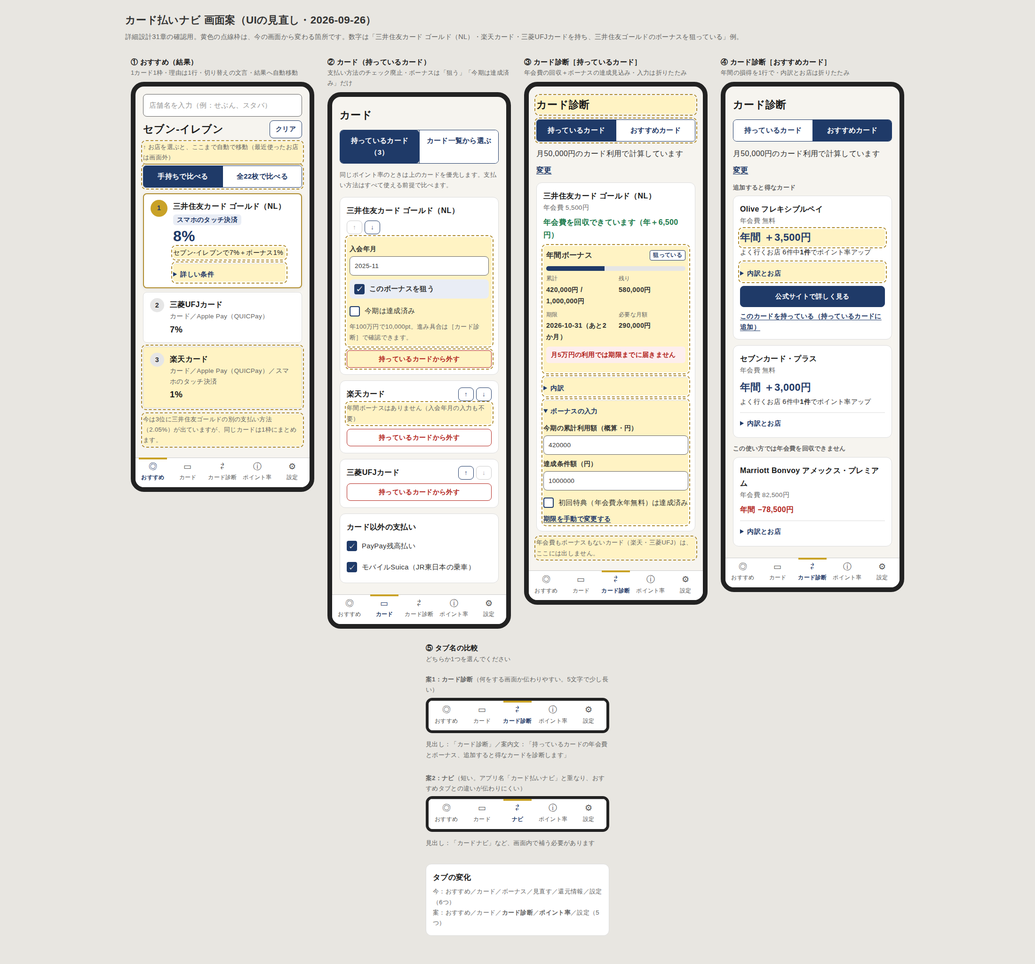
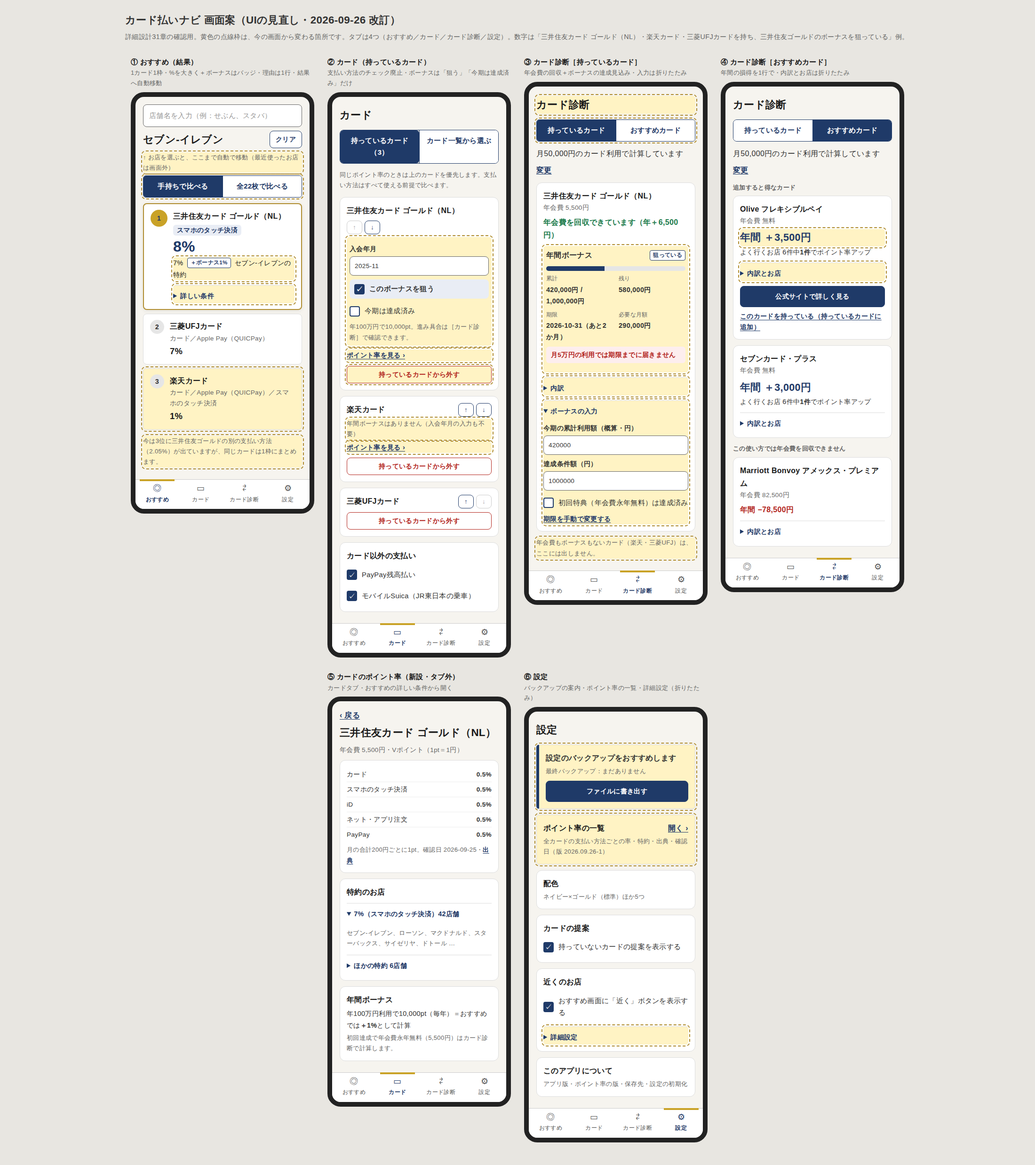
Settle tab layout and bonus weighting in the UI review design
Four tabs (おすすめ / カード / カード診断 / 設定): the bonus and point-rate
tabs go away, point rates move to a per-card screen opened from the card
tab and recommendation details plus a full list under settings. The
recommendation bonus uplift is bonus points / threshold, excluding the
one-time annual-fee waiver, added only while the goal is targeted and not
yet achieved; the fee-deducting option B is dropped. Mockups updated to
match.

Claude-Session: https://claude.ai/code/session_01Nz6b1Ns8ef6LsHNfBXt382

Changed region(s): [[0.1236, 0.0, 0.8964, 0.999]]

diff --git a/design/mockups/ui_review_2026-09-26.html b/design/mockups/ui_review_2026-09-26.html
@@ -54,7 +54,7 @@ dl{display:grid;grid-template-columns:1fr 1fr;gap:6px 12px;margin:6px 0 0}dt{fon
 .store-title{display:flex;justify-content:space-between;align-items:center;margin:8px 0}
 .search{border:1px solid #666;border-radius:var(--r8);background:#fff;padding:10px 12px;color:#999;font-size:.95rem}
 .chip{display:inline-block;border:1px solid var(--navy);border-radius:var(--r8);padding:2px 10px;color:var(--navy);font-weight:700;font-size:.82rem;margin:0 4px 6px 0}
-.tabs{display:grid;grid-template-columns:repeat(5,1fr);background:#fff;border-top:1px solid #ccc;padding:6px 0 10px}
+.tabs{display:grid;grid-template-columns:repeat(4,1fr);background:#fff;border-top:1px solid #ccc;padding:6px 0 10px}
 .tab{display:flex;flex-direction:column;align-items:center;font-size:.72rem;color:#555;gap:2px;position:relative}
 .tab b{font-size:1.1rem;font-weight:400;line-height:1.4}.tab.on{color:var(--navy);font-weight:700}.tab.on:before{content:"";position:absolute;top:-7px;left:10%;right:10%;height:4px;background:var(--gold)}
 .new{background:#fff3c4;outline:2px dashed #b08d2f;outline-offset:2px;border-radius:6px}
@@ -66,15 +66,15 @@ dl{display:grid;grid-template-columns:1fr 1fr;gap:6px 12px;margin:6px 0 0}dt{fon
 </head>
 <body>
 <div class="page-head">
-  <h1>カード払いナビ 画面案（UIの見直し・2026-09-26）</h1>
-  <p>詳細設計31章の確認用。黄色の点線枠は、今の画面から変わる箇所です。数字は「三井住友カード ゴールド（NL）・楽天カード・三菱UFJカードを持ち、三井住友ゴールドのボーナスを狙っている」例。</p>
+  <h1>カード払いナビ 画面案（UIの見直し・2026-09-26 改訂）</h1>
+  <p>詳細設計31章の確認用。黄色の点線枠は、今の画面から変わる箇所です。タブは4つ（おすすめ／カード／カード診断／設定）。数字は「三井住友カード ゴールド（NL）・楽天カード・三菱UFJカードを持ち、三井住友ゴールドのボーナスを狙っている」例。</p>
 </div>
 
 <div class="row">
 
 <!-- A: おすすめ -->
 <div class="frame">
-<p class="cap">① おすすめ（結果）<small>1カード1枠・理由は1行・切り替えの文言・結果へ自動移動</small></p>
+<p class="cap">① おすすめ（結果）<small>1カード1枠・%を大きく＋ボーナスはバッジ・理由は1行・結果へ自動移動</small></p>
 <div class="phone"><div class="scr">
   <div class="search">店舗名を入力（例：せぶん、スタバ）</div>
   <div class="store-title"><h2 class="t" style="margin:0">セブン-イレブン</h2><span class="btn">クリア</span></div>
@@ -84,16 +84,16 @@ dl{display:grid;grid-template-columns:1fr 1fr;gap:6px 12px;margin:6px 0 0}dt{fon
     <h3>三井住友カード ゴールド（NL）</h3>
     <span class="method">スマホのタッチ決済</span>
     <div class="rate">8%</div>
-    <div class="why new">セブン-イレブンで7%＋ボーナス1%</div>
+    <div class="why new">7% <span class="tag st" style="margin:0 4px">＋ボーナス1%</span> セブン-イレブンの特約</div>
     <details class="new"><summary>詳しい条件</summary>
-      <p class="note">店頭はスマホのタッチ決済のみ（カードのタッチ・iD・挿し込みは対象外）。<br>ボーナス：年100万円で10,000pt。年会費5,500円を差し引いて1%相当（残り580,000円・期限2026-10-31）。<br>カード・iD・PayPayは1.5%。</p>
+      <p class="note">店頭はスマホのタッチ決済のみ（カードのタッチ・iD・挿し込みは対象外）。<br>ボーナス：年100万円で10,000pt＝1%相当（残り580,000円・期限2026-10-31）。年会費は考えません。<br>カード・iD・PayPayは1.5%。<br><span class="link">このカードのポイント率を見る ›</span></p>
     </details>
   </div></div>
   <div class="rank"><div class="no">2</div><div><h3>三菱UFJカード</h3><div class="method">カード／Apple Pay（QUICPay）</div><div class="rate">7%</div></div></div>
   <div class="rank new"><div class="no">3</div><div><h3>楽天カード</h3><div class="method">カード／Apple Pay（QUICPay）／スマホのタッチ決済</div><div class="rate">1%</div></div></div>
   <p class="note new">今は3位に三井住友ゴールドの別の支払い方法（2.05%）が出ていますが、同じカードは1枠にまとめます。</p>
 </div>
-<div class="tabs"><div class="tab on"><b>◎</b>おすすめ</div><div class="tab"><b>▭</b>カード</div><div class="tab"><b>⇄</b>カード診断</div><div class="tab"><b>ⓘ</b>ポイント率</div><div class="tab"><b>⚙</b>設定</div></div>
+<div class="tabs"><div class="tab on"><b>◎</b>おすすめ</div><div class="tab"><b>▭</b>カード</div><div class="tab"><b>⇄</b>カード診断</div><div class="tab"><b>⚙</b>設定</div></div>
 </div></div>
 
 <!-- B: カードタブ -->
@@ -111,11 +111,13 @@ dl{display:grid;grid-template-columns:1fr 1fr;gap:6px 12px;margin:6px 0 0}dt{fon
       <div class="chk plain"><span class="box"></span>今期は達成済み</div>
       <p class="note" style="margin:4px 0 0">年100万円で10,000pt。進み具合は［カード診断］で確認できます。</p>
     </div>
+    <p class="link new" style="margin:8px 0 0;font-size:.9rem">ポイント率を見る ›</p>
     <span class="btn red new">持っているカードから外す</span>
   </div>
   <div class="panel">
     <div class="line" style="justify-content:space-between;margin:0"><h3>楽天カード</h3><span><span class="btn">↑</span> <span class="btn">↓</span></span></div>
     <p class="note new" style="margin:6px 0 0">年間ボーナスはありません（入会年月の入力も不要）</p>
+    <p class="link new" style="margin:4px 0 0;font-size:.9rem">ポイント率を見る ›</p>
     <span class="btn red">持っているカードから外す</span>
   </div>
   <div class="panel">
@@ -127,7 +129,7 @@ dl{display:grid;grid-template-columns:1fr 1fr;gap:6px 12px;margin:6px 0 0}dt{fon
     <div class="chk plain"><span class="box on">✓</span>モバイルSuica（JR東日本の乗車）</div>
   </div>
 </div>
-<div class="tabs"><div class="tab"><b>◎</b>おすすめ</div><div class="tab on"><b>▭</b>カード</div><div class="tab"><b>⇄</b>カード診断</div><div class="tab"><b>ⓘ</b>ポイント率</div><div class="tab"><b>⚙</b>設定</div></div>
+<div class="tabs"><div class="tab"><b>◎</b>おすすめ</div><div class="tab on"><b>▭</b>カード</div><div class="tab"><b>⇄</b>カード診断</div><div class="tab"><b>⚙</b>設定</div></div>
 </div></div>
 
 <!-- C: カード診断 持っているカード -->
@@ -158,7 +160,7 @@ dl{display:grid;grid-template-columns:1fr 1fr;gap:6px 12px;margin:6px 0 0}dt{fon
   </div>
   <p class="note new">年会費もボーナスもないカード（楽天・三菱UFJ）は、ここには出しません。</p>
 </div>
-<div class="tabs"><div class="tab"><b>◎</b>おすすめ</div><div class="tab"><b>▭</b>カード</div><div class="tab on"><b>⇄</b>カード診断</div><div class="tab"><b>ⓘ</b>ポイント率</div><div class="tab"><b>⚙</b>設定</div></div>
+<div class="tabs"><div class="tab"><b>◎</b>おすすめ</div><div class="tab"><b>▭</b>カード</div><div class="tab on"><b>⇄</b>カード診断</div><div class="tab"><b>⚙</b>設定</div></div>
 </div></div>
 
 <!-- D: カード診断 おすすめカード -->
@@ -190,27 +192,53 @@ dl{display:grid;grid-template-columns:1fr 1fr;gap:6px 12px;margin:6px 0 0}dt{fon
   <p class="note" style="margin:0 0 6px"><strong>この使い方では年会費を回収できません</strong></p>
   <div class="panel"><h3>Marriott Bonvoy アメックス・プレミアム</h3><p class="muted" style="margin:0">年会費 82,500円</p><p class="ng" style="margin:6px 0 0">年間 −78,500円</p><details><summary>内訳とお店</summary></details></div>
 </div>
-<div class="tabs"><div class="tab"><b>◎</b>おすすめ</div><div class="tab"><b>▭</b>カード</div><div class="tab on"><b>⇄</b>カード診断</div><div class="tab"><b>ⓘ</b>ポイント率</div><div class="tab"><b>⚙</b>設定</div></div>
+<div class="tabs"><div class="tab"><b>◎</b>おすすめ</div><div class="tab"><b>▭</b>カード</div><div class="tab on"><b>⇄</b>カード診断</div><div class="tab"><b>⚙</b>設定</div></div>
 </div></div>
 
-<!-- E: タブ名の比較 -->
-<div class="frame tabcmp">
-<p class="cap">⑤ タブ名の比較<small>どちらか1つを選んでください</small></p>
-<div>
-  <p class="legend"><strong>案1：カード診断</strong>（何をする画面か伝わりやすい。5文字で少し長い）</p>
-  <div class="phone" style="border-width:6px;border-radius:14px"><div class="tabs"><div class="tab"><b>◎</b>おすすめ</div><div class="tab"><b>▭</b>カード</div><div class="tab on"><b>⇄</b>カード診断</div><div class="tab"><b>ⓘ</b>ポイント率</div><div class="tab"><b>⚙</b>設定</div></div></div>
-  <p class="note">見出し：「カード診断」／案内文：「持っているカードの年会費とボーナス、追加すると得なカードを診断します」</p>
+<!-- E: カードのポイント率 -->
+<div class="frame">
+<p class="cap">⑤ カードのポイント率（新設・タブ外）<small>カードタブ・おすすめの詳しい条件から開く</small></p>
+<div class="phone"><div class="scr">
+  <p class="link" style="margin:0 0 4px">‹ 戻る</p>
+  <h2 class="t" style="margin-top:0">三井住友カード ゴールド（NL）</h2>
+  <p class="muted" style="margin:-6px 0 10px">年会費 5,500円・Vポイント（1pt＝1円）</p>
+  <div class="panel">
+    <div class="delta" style="border:0"><span>カード</span><b>0.5%</b></div>
+    <div class="delta"><span>スマホのタッチ決済</span><b>0.5%</b></div>
+    <div class="delta"><span>iD</span><b>0.5%</b></div>
+    <div class="delta"><span>ネット・アプリ注文</span><b>0.5%</b></div>
+    <div class="delta"><span>PayPay</span><b>0.5%</b></div>
+    <p class="note" style="margin:6px 0 0">月の合計200円ごとに1pt。確認日 2026-09-25・<span class="link">出典</span></p>
+  </div>
+  <div class="panel">
+    <h3>特約のお店</h3>
+    <details open><summary>7%（スマホのタッチ決済）42店舗</summary><p class="note">セブン-イレブン、ローソン、マクドナルド、スターバックス、サイゼリヤ、ドトール …</p></details>
+    <details><summary>ほかの特約 6店舗</summary></details>
+  </div>
+  <div class="panel">
+    <h3>年間ボーナス</h3>
+    <p style="margin:4px 0 0;font-size:.9rem">年100万円利用で10,000pt（毎年）＝おすすめでは<b>＋1%</b>として計算</p>
+    <p class="note" style="margin:4px 0 0">初回達成で年会費永年無料（5,500円）はカード診断で計算します。</p>
+  </div>
 </div>
-<div>
-  <p class="legend"><strong>案2：ナビ</strong>（短い。アプリ名「カード払いナビ」と重なり、おすすめタブとの違いが伝わりにくい）</p>
-  <div class="phone" style="border-width:6px;border-radius:14px"><div class="tabs"><div class="tab"><b>◎</b>おすすめ</div><div class="tab"><b>▭</b>カード</div><div class="tab on"><b>⇄</b>ナビ</div><div class="tab"><b>ⓘ</b>ポイント率</div><div class="tab"><b>⚙</b>設定</div></div></div>
-  <p class="note">見出し：「カードナビ」など、画面内で補う必要があります</p>
+<div class="tabs"><div class="tab"><b>◎</b>おすすめ</div><div class="tab on"><b>▭</b>カード</div><div class="tab"><b>⇄</b>カード診断</div><div class="tab"><b>⚙</b>設定</div></div>
+</div></div>
+
+<!-- F: 設定 -->
+<div class="frame">
+<p class="cap">⑥ 設定<small>バックアップの案内・ポイント率の一覧・詳細設定（折りたたみ）</small></p>
+<div class="phone"><div class="scr">
+  <h2 class="t">設定</h2>
+  <div class="panel new" style="border-left:6px solid var(--navy)"><strong>設定のバックアップをおすすめします</strong><p class="note" style="margin:4px 0 0">最終バックアップ：まだありません</p><span class="btn fill" style="margin-top:8px">ファイルに書き出す</span></div>
+  <div class="panel new"><div class="line" style="justify-content:space-between;margin:0"><h3>ポイント率の一覧</h3><span class="link">開く ›</span></div><p class="note" style="margin:4px 0 0">全カードの支払い方法ごとの率・特約・出典・確認日（版 2026.09.26-1）</p></div>
+  <div class="panel"><h3>配色</h3><p class="note" style="margin:4px 0 0">ネイビー×ゴールド（標準）ほか5つ</p></div>
+  <div class="panel"><h3>カードの提案</h3><div class="chk plain"><span class="box on">✓</span>持っていないカードの提案を表示する</div></div>
+  <div class="panel"><h3>近くのお店</h3><div class="chk plain"><span class="box on">✓</span>おすすめ画面に「近く」ボタンを表示する</div>
+    <details class="new"><summary>詳細設定</summary><p class="note">検索先（OpenStreetMap／Yahoo!ローカルサーチ）、アプリID、検索する半径。将来は管理者だけが設定します。</p></details></div>
+  <div class="panel"><h3>このアプリについて</h3><p class="note" style="margin:4px 0 0">アプリ版・ポイント率の版・保存先・設定の初期化</p></div>
 </div>
-<div class="panel" style="margin-top:6px">
-  <h3>タブの変化</h3>
-  <p class="note" style="margin:6px 0 0">今：おすすめ／カード／ボーナス／見直す／還元情報／設定（6つ）<br>案：おすすめ／カード／<b>カード診断</b>／<b>ポイント率</b>／設定（5つ）</p>
-</div>
-</div>
+<div class="tabs"><div class="tab"><b>◎</b>おすすめ</div><div class="tab"><b>▭</b>カード</div><div class="tab"><b>⇄</b>カード診断</div><div class="tab on"><b>⚙</b>設定</div></div>
+</div></div>
 
 </div>
 </body>

diff --git a/design/detailed_design.md b/design/detailed_design.md
@@ -30,7 +30,7 @@
 | 1.15 | 2026-09-25 | 近くのお店から選ぶ（F13・S10）の詳細設計（27章） |
 | 1.16 | 2026-09-25 | プロジェクト内のソースを整理。v1.13 で統合済みのはずの v1.7〜v1.12 の実装が一部の古いファイルのまま保存されていたため、設計書（20〜24章）と最新のビルド・E2Eをもとに復元し、v1.14〜v1.15 と合わせて全テストを通した（28章） |
 | 1.17 | 2026-09-26 | 残課題3・11・15〜17・19の調査結果（29章）。ルール版 2026.09.26-1 |
-| 1.19 | 2026-09-26 | UIの見直し（31章。設計のみ・未実装）：近くのお店のタグ廃止、ボーナスタブ廃止とカード診断タブへの統合（タブ名は画面案で確認）、おすすめを1カード1枠に、支払い方法の選択廃止、用語統一、ボーナスの期待ポイント率を年会費差し引き（B案）に |
+| 1.19 | 2026-09-26 | UIの見直し（31章。設計のみ・未実装）：近くのお店のタグ廃止、タブを4つに（ボーナス・ポイント率タブを廃止、「見直す」をカード診断に改名して統合）、おすすめを1カード1枠に、支払い方法の選択廃止、用語統一、ボーナスの上乗せから年会費無料特典を除外 |
 | 1.18 | 2026-09-26 | おすすめの比較範囲を「持っているカード／登録カード（22枚）」で切り替え、保有0枚は登録カード全体でおすすめ。区分名「マニア推奨」を「ポイ活向け」に変更（30章） |
 
 ---
@@ -1252,7 +1252,7 @@ export interface RecommendQuery { storeId?: Id; categoryId?: Id; amountYen?: num
 | No | 区分 | 内容 |
 |---|---|---|
 | U1 | 近くのお店 | 一覧（S10）の高還元タグ（「三井住友G 7%」「三菱UFJ 7%」等）を**すべて外す**。店名と距離だけにして、お店を選んでもらい履歴を貯める。カテゴリの店舗一覧（S02）のタグは変更しない |
-| U2 | タブ構成 | 「見直す」タブを改名する（**「カード診断」または「ナビ」。画面案で確認**）。**ボーナスタブは廃止**してタブを5つにする（おすすめ／カード／カード診断（仮）／ポイント率／設定） |
+| U2 | タブ構成 | 「見直す」タブを**「カード診断」**に改名する。**ボーナスタブとポイント率（旧・還元情報）タブは廃止**し、タブを4つにする（おすすめ／カード／カード診断／設定） |
 | U3 | ボーナス | 「このボーナスを狙う」と「今期は達成済み」だけをカードタブに移す。達成に向けた計算（累計・残り・期限・必要な月額）はカード診断タブへ。入力欄（累計・達成条件額・初回特典の達成済み・期限の手動変更）は折りたたむ |
 | U4 | おすすめ | 同じカードは1枠にまとめる（31.2.3） |
 | U5 | おすすめ | お店を選んだら結果の位置まで自動で移動する |
@@ -1260,10 +1260,10 @@ export interface RecommendQuery { storeId?: Id; categoryId?: Id; amountYen?: num
 | U7 | バックアップ | おすすめ画面上部のバックアップ案内をやめ、設定タブにだけ出す |
 | U8 | カード | 支払い方法のチェックは廃止し、経路のある支払い方法はすべて使える前提にする。「カード以外の支払い」（PayPay残高・モバイルSuica）の選択は残す |
 | U9 | カード診断 | カードごとの説明は、年間の損得の1行を残して内訳を折りたたむ |
-| U10 | ポイント率 | カードごとに折りたたむ |
+| U10 | ポイント率 | タブをやめ、カードごとの「ポイント率」画面（カードタブ・おすすめの詳しい条件から開く）と、設定からの一覧（カードごとに折りたたみ）で見る（31.2.8） |
 | U11 | 設定 | 近くのお店の検索先・Yahoo!ローカルサーチのアプリID・半径は「詳細設定」にまとめて折りたたむ。将来は管理者だけが設定する（公開版では利用者に見せない） |
 | U12 | 用語 | 「持っている」「ポイント率」「おすすめ」に統一する（31.2.6） |
-| U13 | ボーナス | おすすめの順位に使うボーナスの上乗せを、年会費を差し引いた期待ポイント率（B案）にする（31.2.4） |
+| U13 | ボーナス | おすすめでは年会費を考えず、ボーナスポイントだけを上乗せする。年会費無料になる初回特典は上乗せに含めない。加算は「狙う」がオンのときだけで、今期の達成済みは加算しない（31.2.4）。年会費の損得はカード診断だけで扱う |
 | U14 | おすすめ | 比較範囲の切り替えの文言を「手持ちで比べる｜全22枚で比べる」にする（枚数はマスタのカード数） |
 
 ### 31.2 仕様
@@ -1273,10 +1273,11 @@ export interface RecommendQuery { storeId?: Id; categoryId?: Id; amountYen?: num
 | タブ | 内容 |
 |---|---|
 | おすすめ | 変更は U4〜U7・U14 |
-| カード | 持っているカード：カードごとに優先順（↑↓）、ボーナスのあるカードだけ「入会年月」「このボーナスを狙う」「今期は達成済み」、外すボタン。支払い方法のチェックはなし（U8）。カード一覧から選ぶ：変更なし |
-| カード診断（仮） | 上部で［持っているカード｜おすすめカード］を切り替え → 月のカード利用額（1行＋［変更］、共通の値）→ カードごとの説明 |
-| ポイント率 | 旧「還元情報」。カードごとに折りたたみ（U10） |
-| 設定 | バックアップ案内（U7）、詳細設定（U11） |
+| カード | 持っているカード：カードごとに優先順（↑↓）、ボーナスのあるカードだけ「入会年月」「このボーナスを狙う」「今期は達成済み」、「ポイント率を見る」、外すボタン。支払い方法のチェックはなし（U8）。カード一覧から選ぶ：各カードに「ポイント率を見る」を追加 |
+| カード診断 | 上部で［持っているカード｜おすすめカード］を切り替え → 月のカード利用額（1行＋［変更］、共通の値）→ カードごとの説明 |
+| 設定 | バックアップ（案内 U7 を含む）、ポイント率の一覧（31.2.8）、配色、カードの提案、詳細設定（U11） |
+
+タブ外の画面：カテゴリ（S02）、近くのお店（S10）、広告の方針（S09）、カードのポイント率（S11・新設）、ポイント率の一覧（S05 を設定から開く形に変更）。
 
 カード診断の［持っているカード］（年会費のある持っているカード・ボーナスのある持っているカードを表示）：
 1. カード名・年会費、判定1行（「年会費を回収できています（年＋6,500円）」等。分冊10.4と同じ）
@@ -1298,29 +1299,33 @@ export interface RecommendQuery { storeId?: Id; categoryId?: Id; amountYen?: num
 - カード以外の経路（PayPay残高など）は従来どおり経路ごとに1枠
 - 影響：詳細設計 D1、`engine.ts` の grouping、参照実装 `master/ref_engine.py` とゴールデンケース（同じカードが複数枠に出るケース）を更新する
 
-#### 31.2.4 ボーナスの期待ポイント率（U13・B案）
+#### 31.2.4 ボーナスの上乗せ（U13）
 
 ```
-上乗せ率 = max(0, 特典額 − 差し引く年会費) ÷ 達成条件額
-  特典額       = bonusValueYen（初年度の特典額・初回特典を含む。従来どおり）
-  差し引く年会費 = カードの年会費。ただし初回特典（年会費永年無料）を達成済みなら0
+上乗せ率 = ボーナスポイント ÷ 達成条件額
+  ボーナスポイント = 特典額（valueYen。入会初年度だけ異なる場合は firstPeriodValueYen）
+                     ※ 年会費無料になる初回特典（oneTimeValueYen）は含めない
 ```
 
-加算する条件（狙う・未達成・期限内・対象の支払い方法）は従来どおり。マスタの値での上乗せ率：
+加算する条件（すべて満たすとき）：
+1. 「このボーナスを狙う」がオン
+2. 今期は未達成（「今期は達成済み」がオフ、かつ累計 < 達成条件額）。達成済みなら、それ以上使ってもボーナスは増えないため加算しない
+3. 期限内（入会年月か手動の期限がある）
+4. その支払い方法がボーナスの集計対象
 
-| ボーナス | 特典 | 年会費 | 従来 | B案 |
-|---|---|---|---|---|
-| 三井住友カード ゴールド（NL） | 10,000＋初回5,500 | 5,500（初回達成後0） | 1.55% | 1.0% |
-| PayPayカード ゴールド | 11,000（初年度6,000） | 11,000 | 1.1% | 0% |
-| 三井住友カード プラチナプリファード | 10,000 | 33,000 | 1.0% | 0% |
-| dカード GOLD | 10,000 | 11,000 | 1.0% | 0% |
-| エポスゴールドカード | 10,000 | 5,000 | 1.0% | 0.5% |
-| ビューカード スタンダード | 5,250 | 524 | 0.35% | 0.32% |
-| マリオット・プレミアム | 75,000 | 82,500 | 1.875% | 0% |
-| マリオット | 50,000 | 34,100 | 2.0% | 0.64% |
+期限までに届くかどうか（月の利用額との比較）は加算の条件にしない。届かない見込みはカード診断で「月5万円の利用では期限までに届きません」と表示する。
 
-- 0% になるボーナスは「狙う」をオンにしても順位は変わらない。カード診断の見込み表示は従来どおり出す
-- 影響：`engine.ts`（`bonusRate`）、参照実装・ゴールデンケース、理由の文言（「ボーナス1%相当（年会費差し引き後）」）
+| ボーナス | 従来 | 新 |
+|---|---|---|
+| 三井住友カード ゴールド（NL） | 1.55%（初回特典5,500円を含む） | **1.0%** |
+| PayPayカード ゴールド | 1.1%（初年度0.6%） | 変更なし |
+| 三井住友カード プラチナプリファード／dカード GOLD／エポスゴールド | 1.0% | 変更なし |
+| マリオット・プレミアム／マリオット | 1.875%／2.0% | 変更なし |
+| ビューカード スタンダード | 0.35% | 変更なし |
+
+- 画面：1位は「8%」を大きく、下に「7% ＋ ボーナス1%」（ボーナスはバッジ）
+- 影響：`bonus.ts` の `bonusValueYen` をおすすめ用（初回特典を除く）とカード診断用（従来どおり含む）に分ける。参照実装・ゴールデンケース（三井住友ゴールドのボーナス率）を更新
+- 年会費の損得（初回特典を含む）はカード診断（分冊10章）で従来どおり計算する
 
 #### 31.2.5 おすすめの画面（U5〜U7・U14）
 - 自動移動：お店を選んだ直後に結果見出しへ `scrollIntoView`（`prefers-reduced-motion` なら瞬時）。入力欄に文字がある間は移動しない
@@ -1336,14 +1341,19 @@ export interface RecommendQuery { storeId?: Id; categoryId?: Id; amountYen?: num
 | ポイント率 | 還元率・還元 | タブ「還元情報」→「ポイント率」、「通常還元」→「通常のポイント率」、「還元ルール確認日」→「ポイント率の確認日」、「還元アップ」→「ポイント率アップ」 |
 | おすすめ | 推奨 | 画面の文言（設計書内の用語は変えない） |
 
+#### 31.2.8 ポイント率の見せ方（U10）
+- **カードのポイント率（S11・新設）**：1枚のカードについて、支払い方法ごとの率・付与単位・出典・確認日、特約のお店（折りたたみ）、ボーナスの内容。カードタブの「ポイント率を見る」と、おすすめの［詳しい条件］の中のリンクから開く。「‹ 戻る」で元の画面へ
+- **ポイント率の一覧**：設定タブの「ポイント率の一覧（出典・確認日）」から開く。旧・還元情報タブと同じ内容を、カードごとに折りたたんで表示。末尾にポイントの価値（1pt＝何円）
+- 還元ルールの版・確認日は、一覧の先頭と設定の「このアプリについて」に表示する
+
 #### 31.2.7 支払い方法の選択廃止（U8）
 - `OwnedCard.enabledMethods` は残し、常に「経路のある支払い方法すべて」にする（バックアップの互換のため）。起動時の整理（`reconcile`）で既存の設定もすべてオンに戻す
 - カードタブの「使う支払い方法」を削除。説明文は「同じポイント率のときは上のカードを優先します」だけにする
 
 ### 31.3 画面案（確認用）
-`design/mockups/ui_review_2026-09-26.html`（スクリーンショット：同フォルダの PNG）。タブ名「カード診断」「ナビ」の両案、カードタブ、カード診断の［持っているカード］［おすすめカード］を示す。確認後にタブ名を決め、本章を確定して実装する。
+`design/mockups/ui_review_2026-09-26.html`（スクリーンショット：同フォルダの PNG）。おすすめ、カードタブ、カード診断の［持っているカード］［おすすめカード］、カードのポイント率（S11）、設定を示す。タブ名は「カード診断」、タブは4つに決定（2026-09-26）。
 
 ### 31.4 テストの見込み
-- 更新：E02（ボーナスの率）、E10〜E13・E19・E28・E29（見直すタブの文言・構成）、E14・E15（支払い方法の欄）、E16〜E18（タブ数）、E21（タグなし）、ゴールデン（1カード1枠・B案）
+- 更新：E02（ボーナスの率）、E04・E08（還元情報タブの廃止）、E10〜E13・E19・E28・E29（見直すタブの文言・構成）、E14・E15（支払い方法の欄）、E16〜E18（タブ数）、E21（タグなし）、ゴールデン（1カード1枠・ボーナス率）
 - 追加：自動移動、理由の折りたたみ、カード診断の切り替えの既定、`reconcile` で支払い方法がすべてオンになること
 

diff --git a/design/decision_log.md b/design/decision_log.md
@@ -56,8 +56,8 @@
 - 世間一般で使われているカード（定番）とマニア界隈でお得とされるカード（マニア推奨）を一覧化し、保有カードをアプリ上で選ぶ。推奨は保有カードからのみ
 - （09-26 変更）区分名「マニア推奨」を「ポイ活向け」に変更
 - （09-26 変更）保有カードが0枚のときは登録カード（22枚）全体でおすすめする。選んだ後は結果の上で「持っているカード｜登録カード（22枚）」を切り替えられる（既定は持っているカード）。登録カード表示では「保有」「未保有」の印、未保有カードに公式サイトへのリンク（アフィリエイトなら「PR」）、結果の下に「アプリに登録している主なカード22枚の中での比較です。日本のすべてのカードではありません」の注記。未保有カードの提案ヒント（①）は出さず、ボーナスの加算とポイント払いの提案は持っているカードだけで判定する
-- （09-26 決定・未実装）UIの見直し（詳細設計31章）：近くのお店のタグはすべて外す／ボーナスタブを廃止し、「狙う」「今期は達成済み」はカードタブ、達成に向けた計算はカード診断タブ（「見直す」を改名。「カード診断」か「ナビ」かは画面案で確認）、入力欄は折りたたみ／おすすめは1カード1枠・結果へ自動移動・理由は1行＋折りたたみ／バックアップ案内は設定タブ／支払い方法のチェックは廃止（すべて使える前提）／カード診断・ポイント率はカードごとに折りたたみ／近くのお店の検索先等は詳細設定（将来は管理者のみ）／用語は「持っている」「ポイント率」「おすすめ」／切り替えは「手持ちで比べる｜全22枚で比べる」
-- （09-26 決定・未実装）ボーナスの上乗せは「(特典額 − 年会費) ÷ 達成条件額」（B案。0未満は0）。初回特典で年会費が永年無料になった後は年会費0円として計算
+- （09-26 決定・未実装）UIの見直し（詳細設計31章）：近くのお店のタグはすべて外す／タブは4つ（おすすめ／カード／カード診断／設定）。ボーナスタブを廃止し、「狙う」「今期は達成済み」はカードタブ、達成に向けた計算はカード診断タブ（「見直す」を改名）、入力欄は折りたたみ。ポイント率タブも廃止し、カードごとのポイント率画面と設定の一覧で見る／おすすめは1カード1枠・結果へ自動移動・理由は1行＋折りたたみ／バックアップ案内は設定タブ／支払い方法のチェックは廃止（すべて使える前提）／カード診断はカードごとに折りたたみ／近くのお店の検索先等は詳細設定（将来は管理者のみ）／用語は「持っている」「ポイント率」「おすすめ」／切り替えは「手持ちで比べる｜全22枚で比べる」
+- （09-26 決定・未実装）おすすめでは年会費を考えず、ボーナスポイントだけを上乗せする（ボーナスポイント÷達成条件額。年会費無料になる初回特典は含めない）。加算は「狙う」がオンで今期未達成のときだけ。期限までに届くかは加算の条件にせず、カード診断で見込みを表示する。年会費差し引き（B案）は不採用
 - （09-26 変更）見直すタブの利用額は、提案カードか年会費のある保有カードがあるときだけ表示する。普段は「月5万円のカード利用で計算しています［変更］」の1行で、［変更］で入力欄を開く（A案）
 - カード一覧・還元情報はカード会社順→会社内はカード名順。どちらも英字で始まる名称をアルファベット順で先に、その後に日本語をあいうえお順。提携カードは発行・ブランドの主体で分類（dカードはNTTドコモ、Amazon Mastercardは三井住友カード、リクルートカードは三菱UFJニコス）
 

diff --git a/design/basic_design.md b/design/basic_design.md
@@ -22,7 +22,7 @@
 | 1.8 | 2026-09-25 | 近くのお店の検索先を設定で選べるようにする（OpenStreetMap（Overpass API）／Yahoo!ローカルサーチAPI（YOLP））。検索先ごとの紐付け・出典表示・同意、YOLPのアプリIDの扱い、残課題を追加 |
 | 1.9 | 2026-09-25 | 見直すタブ（S07）で年会費を回収できるかを計算（月のカード利用額を入力、年間の損得順に並べる、持っているカードの判定を追加。4.5節）。おすすめタブのヒント・バナーは現状維持。ビューカード スタンダードを追加し、モバイルSuica乗車でチャージ分のポイントを評価。ボーナス期間に「初年度だけ期間・特典額が違う」「毎年同じ月日から」を追加（4.3.1）。残課題3〜13の調査結果を反映（ルール版 2026.09.25-1） |
 | 1.10 | 2026-09-26 | 残課題3・11・15〜17・19を調査して反映（ルール版 2026.09.26-1。Olive 8%、Amazon Mastercard の特約修正、ビューサンクスボーナス、楽天ペイ経由のSuica）。詳細は詳細設計29章 |
-| 1.12 | 2026-09-26 | UIの見直しを決定（未実装。詳細設計31章）：タブを5つに（ボーナスタブ廃止・「見直す」をカード診断（仮）に改名して統合）、支払い方法の選択廃止、おすすめは1カード1枠、ボーナスの上乗せは年会費差し引き後、用語を「持っている」「ポイント率」「おすすめ」に統一 |
+| 1.12 | 2026-09-26 | UIの見直しを決定（未実装。詳細設計31章）：タブを4つに（おすすめ／カード／カード診断／設定。ボーナス・還元情報タブを廃止し、「見直す」をカード診断に改名して統合。ポイント率はカードごとの画面と設定の一覧で見る）、支払い方法の選択廃止、おすすめは1カード1枠、ボーナスの上乗せから年会費無料の初回特典を除外、用語を「持っている」「ポイント率」「おすすめ」に統一 |
 | 1.11 | 2026-09-26 | おすすめの比較範囲を「持っているカード／登録カード（22枚）」で切り替え（保有0枚は登録カード全体）。区分名「マニア推奨」→「ポイ活向け」。見直すタブの利用額を1行表示に（詳細設計30章、分冊11章） |
 
 ---
